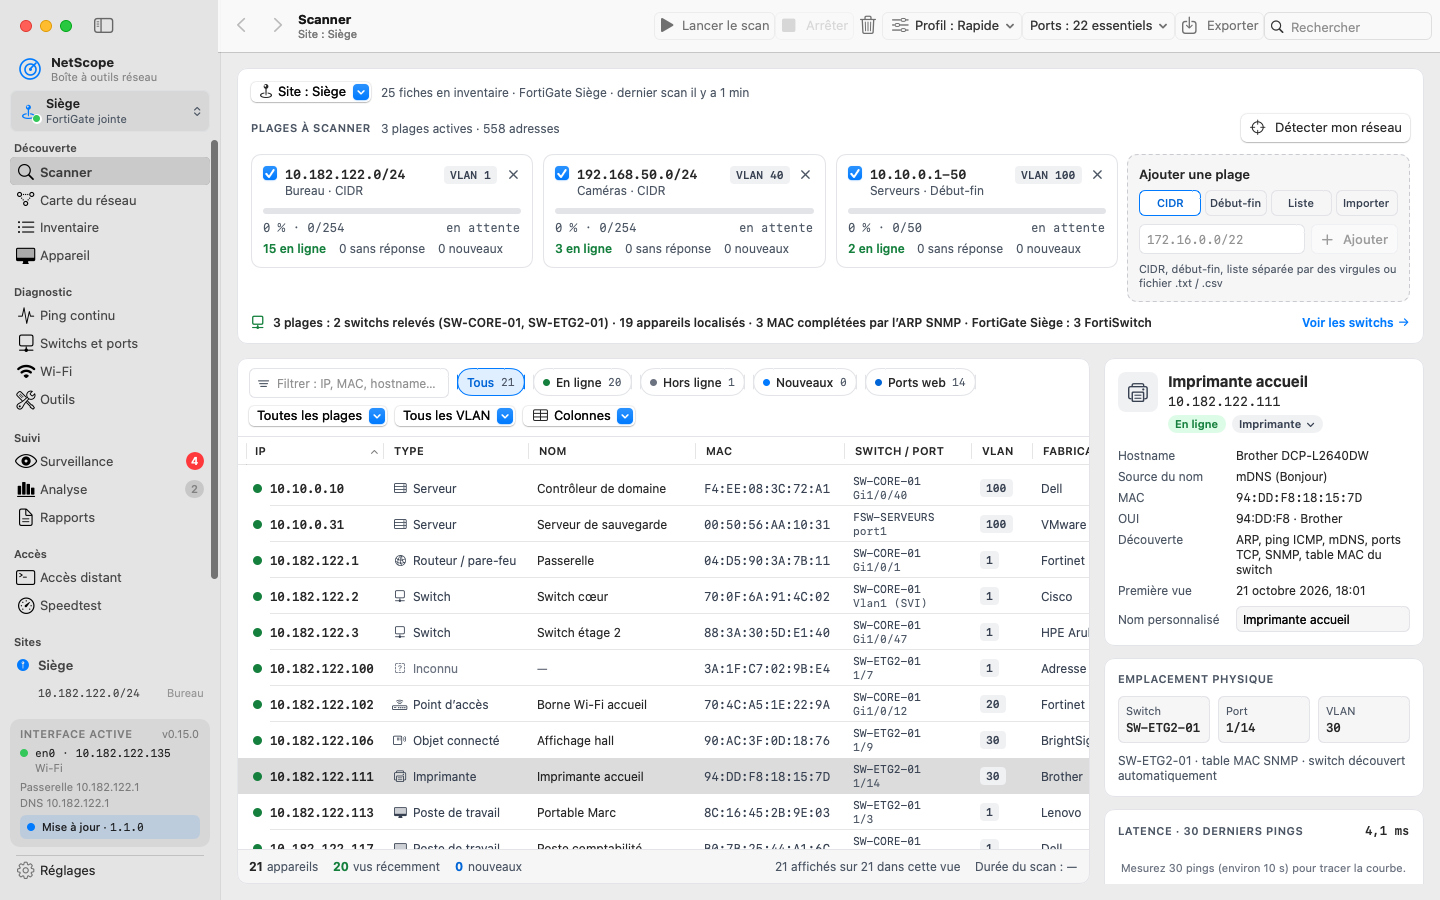
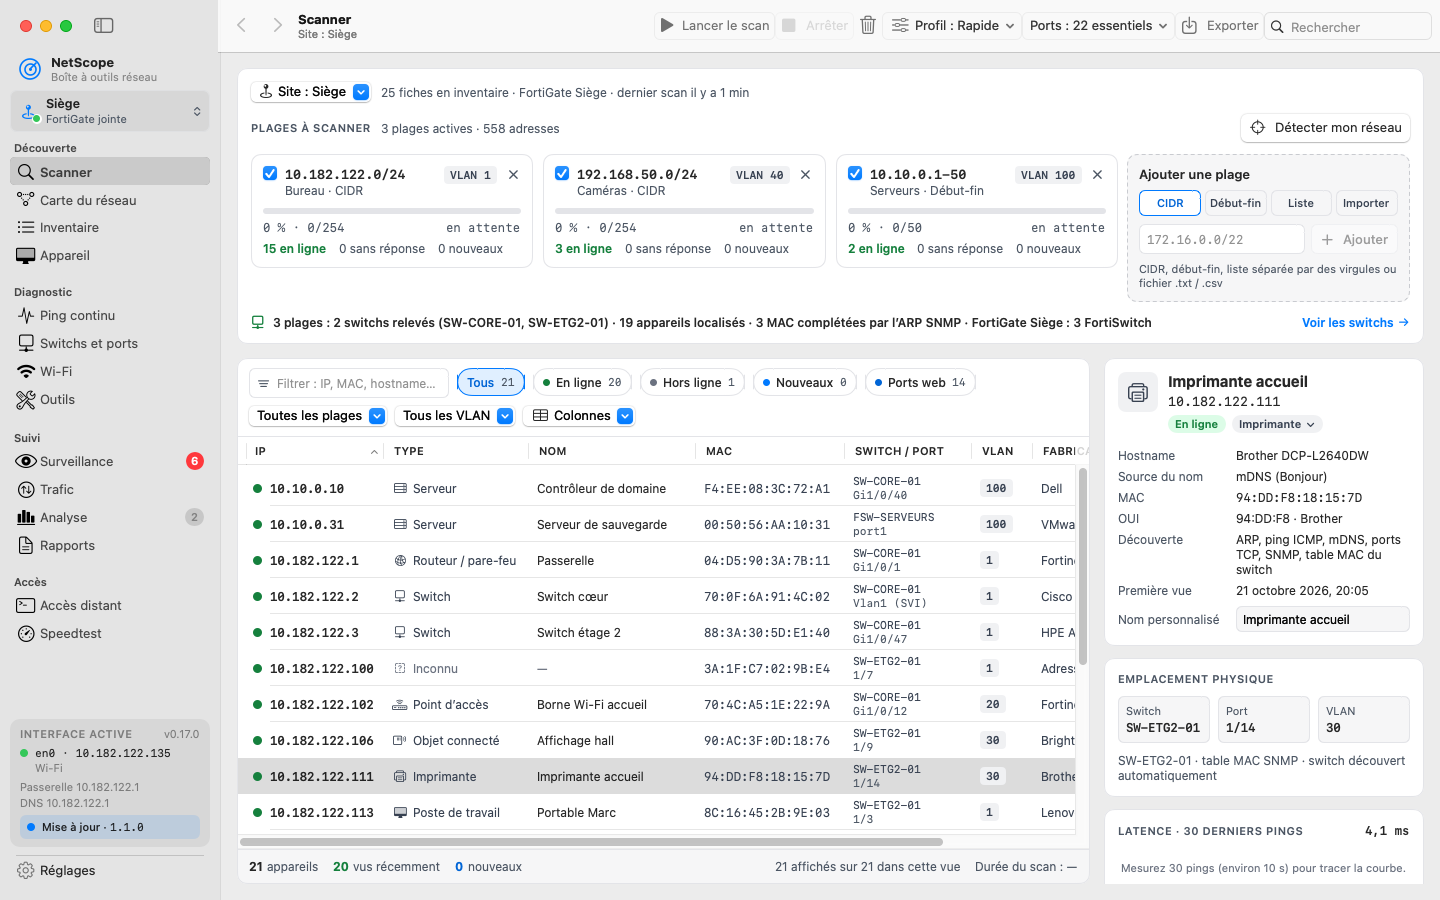
Version 0.17.0
Relecture automatique du site actif (note 29), outil « WAN et VPN » des
FortiGate (note 39), écran « Trafic » FortiView et analyse complète du
réseau (note 54). CHANGELOG, README, feuille de route et capture à jour.

diff --git a/README.md b/README.md
@@ -8,7 +8,7 @@ surveillance, rapports et accès distant, le tout en français.
 
 ## Fonctions
 
-Version 0.16.0 : les quatorze écrans fonctionnent, au style Mac (mode sombre, petite fenêtre), avec des tableaux à colonnes réglables. Nouveau dans la 0.16.0 : les clients Wi-Fi des bornes FortiAP par borne, par radio et par SSID, une fiche complète de chaque client (débits, standard, authentification, itinérances) avec l’historique de son signal, une section Wi-Fi dans la fiche Appareil, et un bouton « Diagnostiquer » sur un client, une borne ou un SSID qui vérifie chaque cause possible (signal, canal, interférences, charge, poste, authentification, DHCP, réseau au-delà du Wi-Fi) et propose les actions dans l’ordre, en lecture seule, avec suivi dans le temps et section de rapport. Depuis la 0.15.0 : le site actif se choisit sous le logo NetScope (pastille de sa FortiGate, recherche, « Détecter mon site », menu « Site » et ⌘⇧S, nom du site dans le titre de la fenêtre) ; Switchs et ports et Wi-Fi › FortiAP montrent un autre site, ou plusieurs, sans changer le site actif, avec une colonne « Site » et une lecture à la demande ; le bouton ‹ Retour nomme l’écran d’origine et retrouve la ligne choisie ; et chaque connexion SSH rapide demande le nom d’utilisateur (prérempli, retenu par appareil, forme « admin@10.0.0.2:2222 », commande affichée avant l’ouverture, aucun mot de passe retenu). Depuis la 0.14.0 : la recherche de la Carte du réseau trouve un appareil, centre la carte sur lui et affiche sa fiche (précédent / suivant, autres sites) ; un type « Téléphone IP » détecté automatiquement (fabricant, SIP, LLDP / CDP, VLAN voix) ; l’outil « Étendues DHCP » montre l’occupation de chaque étendue de la FortiGate, avec sonde de Surveillance et section de rapport ; et les sauvegardes peuvent être chiffrées par mot de passe (AES-GCM 256 bits), jetons et secrets inclus en option pour un deuxième Mac. Depuis la 0.13.0 : un double-clic (ou ↩) sur n’importe quel élément mène à sa suite logique (appareil vers sa fiche, port d’un switch vers l’appareil branché, groupe de la Carte vers l’Inventaire filtré sur ces appareils), un menu « Ouvrir dans › » propose les autres modules, et Retour / Avancer (⌘[ et ⌘]) ramènent à l’écran d’avant avec sa recherche et sa sélection ; les gros sites (milliers d’appareils, 20 sites) restent fluides. Depuis la 0.12.0 : des sites (un par client ou par lieu) avec leurs plages, leurs FortiGate, leurs switchs SNMP et leur propre inventaire, choisis dans le Scanner ou reconnus par la passerelle (jamais par la seule IP) ; changer de site met les résultats de côté sans mélanger deux sites, même sur les mêmes plages IP. On peut aussi supprimer des appareils de l’inventaire (sélection multiple, annulable) et afficher un, plusieurs ou tous les sites dans l’Analyse, l’Inventaire, la Carte et les Rapports. Depuis la 0.11.0 : une recherche multiple dans tous les modules (plusieurs mots, préfixes comme « switch:SW-ETG2 type:imprimante », « ip:10.20.0.0/16 » ou « vlan:30 », exclusion par « - », étiquettes retirables) et, dans le module Wi-Fi, les bornes FortiAP de chaque site lues par sa FortiGate en lecture seule (clients, SSID, AP voisins ou non autorisés), avec un diagnostic des canaux, des signaux faibles et des bornes surchargées. Depuis la 0.10.0 : plusieurs FortiGate, une par site, chacune avec son jeton au Trousseau et ses plages couvertes ; à la fin d’un scan, seules celles qui couvrent les plages scannées sont lues (import et export CSV de la liste, « Tester tout »). Depuis la 0.9.0 : les FortiSwitch gérés par une FortiGate (FortiLink) sont lus par l’API REST de la FortiGate, en lecture seule (jeton au Trousseau), et remplissent Switchs et ports ainsi que les colonnes Switch / Port et VLAN du Scanner, même si le réseau FortiLink n’est pas joignable depuis le Mac. Depuis la 0.8.0 : des Réglages complets (notifications choisies avec heures « Ne pas déranger », raccourcis modifiables et menus Scan, Appareil et Aller, sauvegarde automatique avec restauration, test SNMP v2c/v3, identifiants SSH et WMI, méthodes de découverte par profil) et des alertes hors du Mac par courriel et webhook Teams, Slack ou JSON. Depuis la 0.7.0 : « Capture de paquets » façon Wireshark (filtres, détail par couche, vue hexadécimale, suivi de flux, statistiques, .pcap) et « Vitesse des disques » (disques internes et externes, partages réseau, dossiers nuage) dans la Boîte à outils. Depuis la 0.6.0 : « État des services » (Microsoft 365, Azure, Apple, AWS, Google, Cloudflare… vus par leur page officielle et testés depuis votre réseau) et un groupe « Courriel » dans la Boîte à outils (santé d’un domaine sur 100, MX, listes noires, SPF/DKIM/DMARC, diagnostic SMTP, analyse d’en-têtes), avec une Recherche DNS plus complète (SOA, SRV, CAA, DNSSEC, comparaison et propagation). La suite prévue est dans
+Version 0.17.0 : les quinze écrans fonctionnent, au style Mac (mode sombre, petite fenêtre), avec des tableaux à colonnes réglables. Nouveau dans la 0.17.0 : la relecture automatique de la FortiGate, des bornes FortiAP et des switchs du site actif (intervalle réglable par site, pause hors du site actif, pendant un scan ou hors réseau) ; l’outil « WAN et VPN » (liens WAN et SD-WAN avec latence, gigue, perte et SLA, tunnels IPsec, utilisateurs VPN SSL, vue de tous les sites) ; un écran « Trafic » qui lit FortiView (sources, applications, destinations, menaces), répond à « Qui sature le lien ? » et propose une « Analyse complète du réseau » notée sur 100 ; avec de nouvelles sondes de Surveillance et sections de Rapports, en lecture seule. Depuis la 0.16.0 : les clients Wi-Fi des bornes FortiAP par borne, par radio et par SSID, une fiche complète de chaque client (débits, standard, authentification, itinérances) avec l’historique de son signal, une section Wi-Fi dans la fiche Appareil, et un bouton « Diagnostiquer » sur un client, une borne ou un SSID qui vérifie chaque cause possible (signal, canal, interférences, charge, poste, authentification, DHCP, réseau au-delà du Wi-Fi) et propose les actions dans l’ordre, en lecture seule, avec suivi dans le temps et section de rapport. Depuis la 0.15.0 : le site actif se choisit sous le logo NetScope (pastille de sa FortiGate, recherche, « Détecter mon site », menu « Site » et ⌘⇧S, nom du site dans le titre de la fenêtre) ; Switchs et ports et Wi-Fi › FortiAP montrent un autre site, ou plusieurs, sans changer le site actif, avec une colonne « Site » et une lecture à la demande ; le bouton ‹ Retour nomme l’écran d’origine et retrouve la ligne choisie ; et chaque connexion SSH rapide demande le nom d’utilisateur (prérempli, retenu par appareil, forme « admin@10.0.0.2:2222 », commande affichée avant l’ouverture, aucun mot de passe retenu). Depuis la 0.14.0 : la recherche de la Carte du réseau trouve un appareil, centre la carte sur lui et affiche sa fiche (précédent / suivant, autres sites) ; un type « Téléphone IP » détecté automatiquement (fabricant, SIP, LLDP / CDP, VLAN voix) ; l’outil « Étendues DHCP » montre l’occupation de chaque étendue de la FortiGate, avec sonde de Surveillance et section de rapport ; et les sauvegardes peuvent être chiffrées par mot de passe (AES-GCM 256 bits), jetons et secrets inclus en option pour un deuxième Mac. Depuis la 0.13.0 : un double-clic (ou ↩) sur n’importe quel élément mène à sa suite logique (appareil vers sa fiche, port d’un switch vers l’appareil branché, groupe de la Carte vers l’Inventaire filtré sur ces appareils), un menu « Ouvrir dans › » propose les autres modules, et Retour / Avancer (⌘[ et ⌘]) ramènent à l’écran d’avant avec sa recherche et sa sélection ; les gros sites (milliers d’appareils, 20 sites) restent fluides. Depuis la 0.12.0 : des sites (un par client ou par lieu) avec leurs plages, leurs FortiGate, leurs switchs SNMP et leur propre inventaire, choisis dans le Scanner ou reconnus par la passerelle (jamais par la seule IP) ; changer de site met les résultats de côté sans mélanger deux sites, même sur les mêmes plages IP. On peut aussi supprimer des appareils de l’inventaire (sélection multiple, annulable) et afficher un, plusieurs ou tous les sites dans l’Analyse, l’Inventaire, la Carte et les Rapports. Depuis la 0.11.0 : une recherche multiple dans tous les modules (plusieurs mots, préfixes comme « switch:SW-ETG2 type:imprimante », « ip:10.20.0.0/16 » ou « vlan:30 », exclusion par « - », étiquettes retirables) et, dans le module Wi-Fi, les bornes FortiAP de chaque site lues par sa FortiGate en lecture seule (clients, SSID, AP voisins ou non autorisés), avec un diagnostic des canaux, des signaux faibles et des bornes surchargées. Depuis la 0.10.0 : plusieurs FortiGate, une par site, chacune avec son jeton au Trousseau et ses plages couvertes ; à la fin d’un scan, seules celles qui couvrent les plages scannées sont lues (import et export CSV de la liste, « Tester tout »). Depuis la 0.9.0 : les FortiSwitch gérés par une FortiGate (FortiLink) sont lus par l’API REST de la FortiGate, en lecture seule (jeton au Trousseau), et remplissent Switchs et ports ainsi que les colonnes Switch / Port et VLAN du Scanner, même si le réseau FortiLink n’est pas joignable depuis le Mac. Depuis la 0.8.0 : des Réglages complets (notifications choisies avec heures « Ne pas déranger », raccourcis modifiables et menus Scan, Appareil et Aller, sauvegarde automatique avec restauration, test SNMP v2c/v3, identifiants SSH et WMI, méthodes de découverte par profil) et des alertes hors du Mac par courriel et webhook Teams, Slack ou JSON. Depuis la 0.7.0 : « Capture de paquets » façon Wireshark (filtres, détail par couche, vue hexadécimale, suivi de flux, statistiques, .pcap) et « Vitesse des disques » (disques internes et externes, partages réseau, dossiers nuage) dans la Boîte à outils. Depuis la 0.6.0 : « État des services » (Microsoft 365, Azure, Apple, AWS, Google, Cloudflare… vus par leur page officielle et testés depuis votre réseau) et un groupe « Courriel » dans la Boîte à outils (santé d’un domaine sur 100, MX, listes noires, SPF/DKIM/DMARC, diagnostic SMTP, analyse d’en-têtes), avec une Recherche DNS plus complète (SOA, SRV, CAA, DNSSEC, comparaison et propagation). La suite prévue est dans
 [docs/A-FAIRE.md](docs/A-FAIRE.md).
 
 - **Scanner multi-plages qui se remplit tout seul** : plusieurs plages à la fois, ping ICMP
@@ -32,6 +32,10 @@ Version 0.16.0 : les quatorze écrans fonctionnent, au style Mac (mode sombre, p
   port de switch et nouveaux appareils, avec seuils, plage horaire et dépendance ; barre de
   disponibilité 24 h, journal des alertes, notifications macOS et **icône dans la barre de
   menus** ; les sondes continuent fenêtre fermée.
+- **Trafic, WAN et VPN** (FortiGate, lecture seule) : écran « Trafic » lu par FortiView
+  (sources, applications, destinations, menaces), « Qui sature le lien ? » et « Analyse
+  complète du réseau » notée sur 100 ; outil « WAN et VPN » (liens SD-WAN, tunnels IPsec, VPN
+  SSL) pour un, plusieurs ou tous les sites ; relecture automatique du site actif.
 - **Rapports** : rapport client en **PDF** (format lettre, « Page N de M », signature),
   quatre modèles, sections tirées du scan, de l’inventaire, des switchs et du Wi-Fi ; exports
   CSV, JSON et HTML ; brouillon Mail avec le PDF joint (rien n’est envoyé sans toi).
@@ -79,7 +83,7 @@ Version 0.16.0 : les quatorze écrans fonctionnent, au style Mac (mode sombre, p
   de switch (watts réels sur Cisco et HPE/Aruba) et colonne « PoE » du Scanner.
 - **Mise à jour automatique** depuis les Releases GitHub (canal Stable ou Bêta, vérification
   de la signature avant installation), menu « Rechercher les mises à jour… ».
-- Barre latérale à quatorze écrans, fidèle aux croquis.
+- Barre latérale à quinze écrans, fidèle aux croquis.
 - Interface active affichée en bas de la barre latérale (« en0 · 10.182.122.135 · Wi-Fi »),
   avec la version et une pastille quand une mise à jour est disponible.
 - Recherche multiple dans tous les modules : plusieurs mots à la fois, préfixes de champ

diff --git a/docs/A-FAIRE.md b/docs/A-FAIRE.md
@@ -5,9 +5,9 @@
 
 ## Priorités (revues le 4 novembre 2026, réorganisées avec les notes 45 à 53)
 
-Notes 1 à 5 : livrées dans la 0.3.0 ; note 18 dans la 0.3.1 ; notes 8, 19, 20 et 9 dans la 0.4.0 ; types Console de jeu et Domotique dans la 0.4.1 ; notes 12, 21, 17 et 16 dans la 0.5.0 ; notes 15 et 14 dans la 0.6.0 ; notes 7 et 22 dans la 0.7.0 ; notes 13 et 23 dans la 0.8.0 ; note 24 dans la 0.9.0 ; note 25 dans la 0.10.0 ; notes 26 et 27 dans la 0.11.0 ; note 28 et correction de la Carte dans la 0.12.0 ; notes 34, 33, 31 et 36 dans la 0.13.0 ; notes 32, 30, 37 et 38 dans la 0.14.0 ; notes 49, 48, 45 et 52 dans la 0.15.0 ; notes 46 et 47, et correctif iCloud de Vitesse des disques, dans la 0.16.0.
+Notes 1 à 5 : livrées dans la 0.3.0 ; note 18 dans la 0.3.1 ; notes 8, 19, 20 et 9 dans la 0.4.0 ; types Console de jeu et Domotique dans la 0.4.1 ; notes 12, 21, 17 et 16 dans la 0.5.0 ; notes 15 et 14 dans la 0.6.0 ; notes 7 et 22 dans la 0.7.0 ; notes 13 et 23 dans la 0.8.0 ; note 24 dans la 0.9.0 ; note 25 dans la 0.10.0 ; notes 26 et 27 dans la 0.11.0 ; note 28 et correction de la Carte dans la 0.12.0 ; notes 34, 33, 31 et 36 dans la 0.13.0 ; notes 32, 30, 37 et 38 dans la 0.14.0 ; notes 49, 48, 45 et 52 dans la 0.15.0 ; notes 46 et 47, et correctif iCloud de Vitesse des disques, dans la 0.16.0 ; notes 29, 39 et 54 dans la 0.17.0.
 
-1. **0.13.x à 0.16.x, retours d'essai** (0.8.1 : plantage de Vitesse des disques sur le NAS corrigé ; 0.9.0 : FortiGate essayée avec succès ; 0.10.0 : plusieurs FortiGate à essayer ; 0.11.0 : recherche multiple et FortiAP à essayer ; 0.12.0 : sites à essayer ; 0.13.0 : navigation et gros sites à essayer ; 0.14.0 : recherche de la Carte, téléphones IP, étendues DHCP et sauvegarde chiffrée à essayer ; 0.15.0 : choix du site, Switchs et Wi-Fi d'un autre site, Retour et nom d'utilisateur SSH à essayer ; 0.16.0 : clients Wi-Fi, fiche du client, historique du signal et diagnostic Wi-Fi à essayer sur de vraies bornes FortiAP) : essais réels de la 0.3.x (localisation, DHCP, capture,
+1. **0.13.x à 0.17.x, retours d'essai** (0.8.1 : plantage de Vitesse des disques sur le NAS corrigé ; 0.9.0 : FortiGate essayée avec succès ; 0.10.0 : plusieurs FortiGate à essayer ; 0.11.0 : recherche multiple et FortiAP à essayer ; 0.12.0 : sites à essayer ; 0.13.0 : navigation et gros sites à essayer ; 0.14.0 : recherche de la Carte, téléphones IP, étendues DHCP et sauvegarde chiffrée à essayer ; 0.15.0 : choix du site, Switchs et Wi-Fi d'un autre site, Retour et nom d'utilisateur SSH à essayer ; 0.16.0 : clients Wi-Fi, fiche du client, historique du signal et diagnostic Wi-Fi à essayer sur de vraies bornes FortiAP ; 0.17.0 : relecture automatique, WAN et VPN, Trafic FortiView et analyse complète à essayer sur de vraies FortiGate) : essais réels de la 0.3.x (localisation, DHCP, capture,
    notifications, VNC, mise à jour), de la 0.4.0 (menus de colonnes, type, ports, sombre) et
    des 0.5.0 à 0.8.0 (voir ci-dessous) ; 0.13.1 au besoin.
 2. ~~**0.5.0, diagnostic du poste et du réseau local**~~ : livrée le 4 novembre 2026
@@ -46,7 +46,13 @@ Notes 1 à 5 : livrées dans la 0.3.0 ; note 18 dans la 0.3.1 ; notes 8, 19, 20 
     Appareil ; 47 : diagnostic Wi-Fi d'un client, d'une borne ou d'un SSID, avec suivi et
     rapport ; correctif iCloud de Vitesse des disques) ; essai réel à faire sur les FortiGate
     et bornes FortiAP de Dany (champs renvoyés par FortiOS, diagnostic sur un vrai client).
-14. **Ordre proposé pour la suite** (analyse du 4 novembre 2026, acceptée par Dany ;
+14. ~~**0.17.0, suivi automatique et trafic**~~ : livrée le 4 novembre 2026 (notes 29 :
+    relecture automatique du site actif, intervalle par site, pauses et essais espacés ; 39 :
+    outil « WAN et VPN », vue de tous les sites, sondes et rapport ; 54 : écran « Trafic »
+    FortiView, « Qui sature le lien ? », analyse complète du réseau, sondes et rapport) ; essai
+    réel à faire sur les FortiGate de Dany (droits FortiView et Log & Report, champs SD-WAN,
+    IPsec et VPN SSL, historique selon la journalisation).
+15. **Ordre proposé pour la suite** (analyse du 4 novembre 2026, acceptée par Dany ;
     réorganisé le même jour pour placer les notes 45 à 53, ordre accepté par Dany) :
     - **0.13.1** : essais réels (sites, FortiGate, FortiAP, navigation) et correctifs ; note 35
       (journal et diagnostic).
@@ -57,8 +63,8 @@ Notes 1 à 5 : livrées dans la 0.3.0 ; note 18 dans la 0.3.1 ; notes 8, 19, 20 
       historique vidé au changement de site), 52 (nom d'utilisateur SSH).
     - ~~**0.16.0, Wi-Fi des clients**~~ (livrée) : notes 46 (clients par borne et par SSID,
       fiche complète), 47 (diagnostic Wi-Fi d'un client, avec solutions).
-    - **0.17.0, suivi automatique et trafic** : notes 29 (relire en automatique), 39 (WAN des
-      FortiGate), 54 (FortiView : trafic et analyse complète du réseau).
+    - ~~**0.17.0, suivi automatique et trafic**~~ (livrée) : notes 29 (relire en automatique),
+      39 (WAN des FortiGate), 54 (FortiView : trafic et analyse complète du réseau).
     - **0.18.0, transferts et services** : notes 50 (FTP, FTPS, SFTP), 51 (TFTP), 53 (réseaux
       sociaux et assistants IA dans les services en ligne).
     - **0.19.0, parc Fortinet** : notes 40 (sauvegarde des configurations), 41 (firmware et
@@ -76,7 +82,7 @@ Notes 1 à 5 : livrées dans la 0.3.0 ; note 18 dans la 0.3.1 ; notes 8, 19, 20 
 | --- | --- | --- |
 | Scanner et sites | 18, 19, 20, 26, 28, 48, 49 | — |
 | Navigation entre les modules | 31, 33, 34, 36, 45 | — |
-| Switchs et ports, Fortinet | 12, 24, 25 | 29, 39 et 54 (0.17.0), 40 et 41 (0.19.0) |
+| Switchs et ports, Fortinet | 12, 24, 25, 29, 39, 54 | 40 et 41 (0.19.0) |
 | Wi-Fi | 1, 27, 46, 47 | — |
 | Carte du réseau | 32 | — |
 | Inventaire | 8, 30 | 10 (0.20.0) |
@@ -634,6 +640,8 @@ site. Il est possible d'avoir plusieurs sites sous la même plage IP. »
 
 ## 29. Relire en automatique — 0.17.0 (demande de Dany)
 
+**Livrée dans la 0.17.0** (4 novembre 2026) ; essai réel à faire sur les FortiGate de Dany (intervalles, pauses, essais espacés après une erreur).
+
 - Relecture périodique, sans relancer de scan, de la FortiGate (FortiSwitch, FortiAP), des
   switchs SNMP et des emplacements des appareils (aujourd'hui : boutons « Relire la FortiGate »,
   « Relire les bornes », « Interroger les switchs » ou fin de scan).
@@ -730,6 +738,8 @@ entre ces modules. » Règle commune à tout NetScope (englobe les notes 31 et 3
   aujourd’hui, jamais de secret.
 
 ## 39. État du WAN de chaque FortiGate — 0.17.0 (analyse, retenue par Dany)
+
+**Livrée dans la 0.17.0** (4 novembre 2026) ; essai réel à faire sur les FortiGate de Dany (champs SD-WAN, IPsec et VPN SSL renvoyés par FortiOS).
 
 - Liens WAN et SD-WAN (état, latence, perte, gigue), tunnels VPN IPsec (montés ou tombés),
   par site ; sondes « tunnel tombé » et « lien WAN dégradé » ; vue de tous les sites.
@@ -948,6 +958,8 @@ Ajouter au catalogue de la note 15 (`SvcCatalog.swift`, livré dans la 0.6.0) un
   site (ex. réseaux sociaux masqués là où ils sont bloqués exprès).
 
 ## 54. FortiView : trafic et analyse complète du réseau — 0.17.0 (demande de Dany)
+
+**Livrée dans la 0.17.0** (4 novembre 2026) ; essai réel à faire sur les FortiGate de Dany (droits « Log & Report » et « FortiView », historique selon la journalisation).
 
 « Ajouter FortiView, le trafic, une analyse complète du réseau. » Nouvel écran « Trafic »
 (groupe SUIVI), lu sur la FortiGate de chaque site par l'API REST de FortiOS (moniteurs

diff --git a/CHANGELOG.md b/CHANGELOG.md
@@ -1,5 +1,72 @@
 # Changements
 
+## 0.17.0 — 2026-11-04
+
+Le suivi automatique et le trafic : NetScope relit tout seul la FortiGate, les bornes et les
+switchs du site actif, montre l’état du WAN et des VPN de chaque FortiGate, et un nouvel écran
+« Trafic » dit qui consomme le lien, avec une analyse complète du réseau notée sur 100.
+
+### Ajouté
+- **Relecture automatique** : sans relancer de scan, NetScope relit à intervalle régulier la
+  FortiGate du site actif (FortiSwitch, emplacement des appareils, table ARP et baux DHCP), ses
+  bornes FortiAP et ses switchs SNMP.
+- Intervalle réglable par site dans Réglages › Switchs › Relecture automatique : désactivée,
+  1, 2, 5, 10, 15 ou 30 min (5 min par défaut).
+- Indication « Relu il y a 2 min · prochaine dans 3 min » dans Switchs et ports et dans
+  Wi-Fi › FortiAP, avec un menu pour changer l’intervalle du site actif.
+- **Outil « WAN et VPN »** (Boîte à outils › Internet) : liens WAN de chaque FortiGate avec
+  leur état, débit, latence, gigue, perte et SLA du SD-WAN ; tunnels VPN IPsec montés, partiels
+  ou tombés, avec le détail des phases 2 ; utilisateurs VPN SSL connectés. Lecture seule par
+  l’API REST.
+- Vue de tous les sites dans « WAN et VPN » : le menu « Site ▾ » montre un, plusieurs ou tous
+  les sites, avec un tableau qui résume chaque FortiGate (liens actifs, tunnels montés, état).
+- Seuils réglables d’un lien dégradé (latence, gigue, perte) ; un SLA non respecté sur la
+  FortiGate compte aussi. Conseils en clair pour un lien ou un tunnel en panne.
+- **Nouvel écran « Trafic »** (groupe Suivi) : trafic de la FortiGate de chaque site lu par
+  FortiView (sources, destinations, applications, catégories web, interfaces, politiques,
+  sessions et menaces), en temps réel ou sur 5 min, 1 h, 24 h ou 7 jours, trié par débit,
+  octets ou sessions. Menu « Site ▾ » avec « Tous les sites ».
+- **« Qui sature le lien ? »** en un clic : charge de chaque lien WAN et appareils qui
+  consomment le plus, avec leur application, leur destination et un conseil (par exemple, une
+  sauvegarde nuage à déplacer hors des heures ouvrables).
+- Chaque source du trafic est reliée à NetScope : son nom, son port de switch et sa borne
+  Wi-Fi ; double-clic vers sa fiche Appareil, « Ouvrir dans › » vers les autres modules.
+- **« Analyse complète du réseau »** : un bilan qui réunit trafic, sécurité, santé (WAN, ports
+  de switch en erreur, Wi-Fi, étendues DHCP) et inventaire (appareils inconnus), avec une note
+  sur 100 et des points classés par gravité, chacun expliqué, avec l’action conseillée et un
+  bouton « Voir ».
+- **Surveillance** : nouvelles sondes « Tunnel VPN tombé » et « Lien WAN dégradé » (un tunnel,
+  un lien, « * » ou « Site / * », avec leurs propres seuils), « Lien saturé », « Appareil qui
+  consomme trop » et « Nouvelle menace ».
+- **Rapports** : nouvelles sections facultatives « WAN et VPN » (liens, tunnels, constats et
+  conseils) et « Trafic et analyse » (liens WAN, plus gros consommateurs, applications, menaces
+  et points de l’analyse complète).
+
+### Modifié
+- La relecture se met en pause pour tout site qui n’est pas le site actif, pendant un scan,
+  quand le Mac est en veille ou hors réseau, et quand le jeton ou le certificat de la FortiGate
+  est à régler.
+- Une lecture faite au bouton, en fin de scan ou par la Surveillance repousse la relecture
+  suivante : jamais deux lectures à la fois vers la même FortiGate.
+- Réglages › Switchs : l’aide indique les droits « Log & Report » et « FortiView » en lecture
+  à ajouter au profil de l’administrateur API.
+- Diagnostic FortiGate : les réponses brutes du WAN, des VPN et de FortiView sont ajoutées au
+  texte copié, sans le jeton.
+
+### Corrigé
+- Après une erreur de lecture, les essais s’espacent (le double à chaque échec, jusqu’à 1 h)
+  et la dernière lecture réussie reste affichée, au lieu d’être effacée.
+- Jamais de relecture SNMP d’un switch d’un autre site : la communauté ne part pas vers
+  l’appareil qui porte la même adresse chez un autre client.
+
+### Limites
+- Tout est en lecture seule et n’a pas encore été essayé sur une vraie FortiGate : les champs
+  renvoyés par FortiOS (SD-WAN, IPsec, VPN SSL, FortiView) peuvent varier selon la version.
+- L’écran « Trafic » demande les droits « Log & Report » et « FortiView » en lecture sur le
+  profil de l’administrateur API ; sans eux, il l’indique et reste vide. L’historique sur
+  24 h ou 7 jours dépend de la journalisation (disque ou FortiAnalyzer) de la FortiGate.
+- La relecture automatique ne touche que le site actif, et seulement quand NetScope est ouvert.
+
 ## 0.16.0 — 2026-11-04
 
 Les clients Wi-Fi des bornes FortiAP en détail : par borne, par radio et par SSID, une fiche
